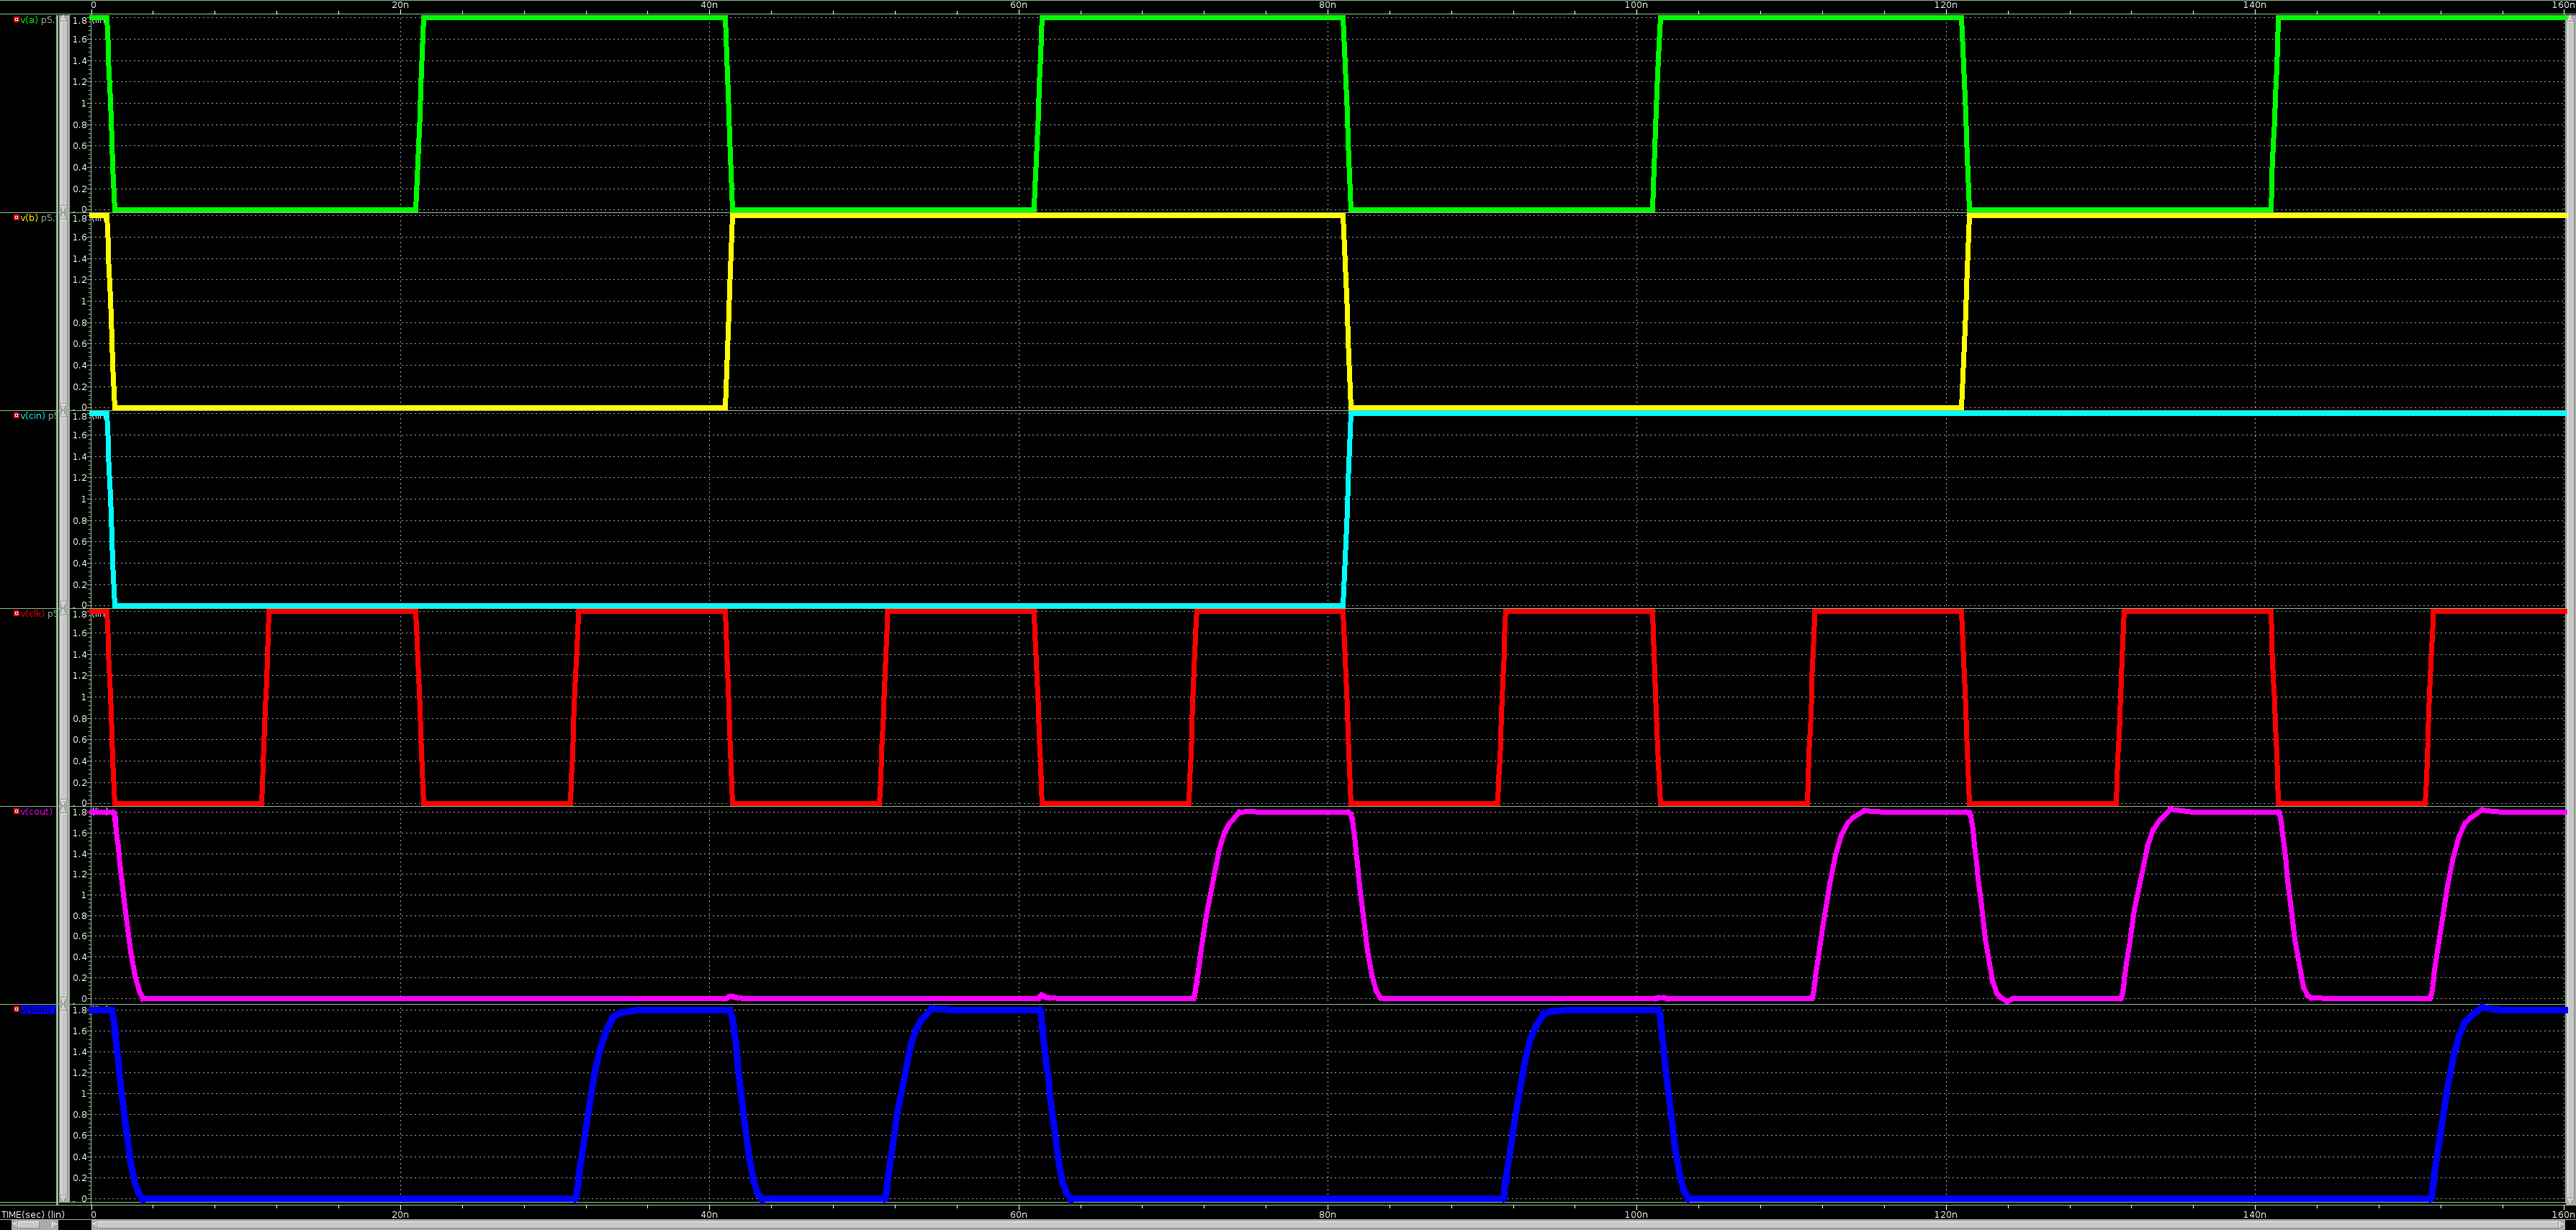
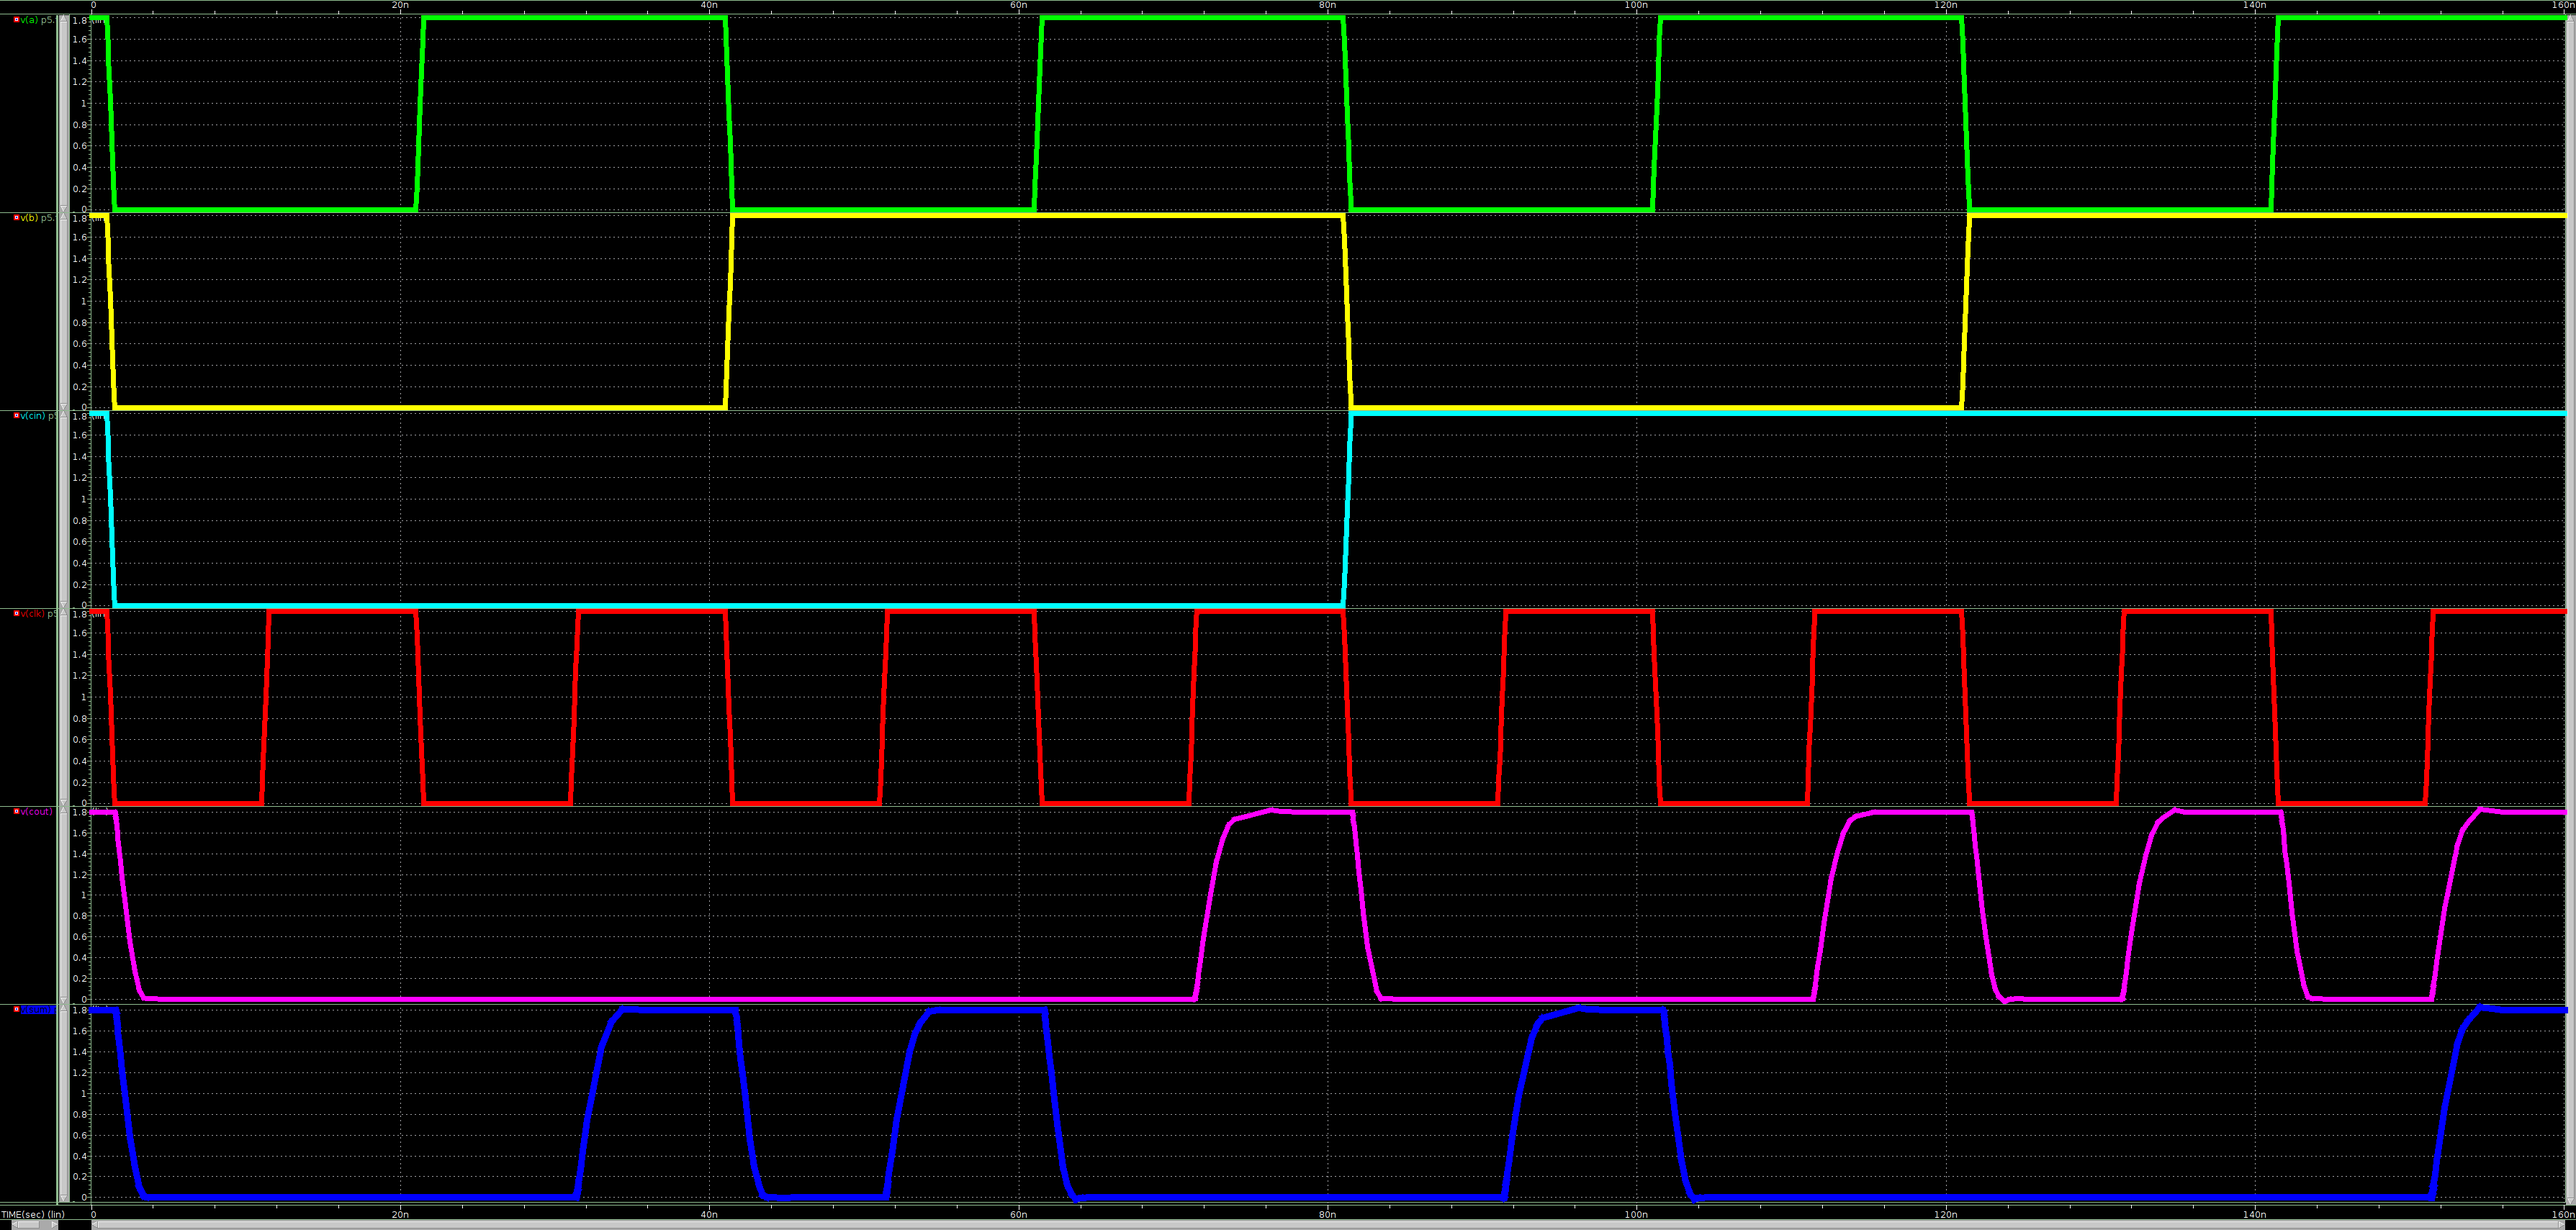
第6題 delay time更新

diff --git a/MidtermPractice/Practice5/README.md b/MidtermPractice/Practice5/README.md
@@ -4,16 +4,25 @@
 - delay time 全部符合
 - **注意:**
   
-  *VCLK    CLK  GND    PULSE(VL  VH  delay  trise  tfall  pulse_width  period)
+    *VCLK    CLK  GND    PULSE(VL　VH　delay　trise　tfall　 pulse_width　period)
 
-    vclk clk 0   pulse(1.8  0   1n  0.5n  0.5n  9.5n   20n)
-
-    tfall+pulse_width=period/2
-
-    即0.5n+9.5n=10n
+    vclk　clk　0　　pulse(1.8　0　　1n　　0.5n　0.5n　9.5n　　　　　20n)
+    > tfall+pulse_width=period/2 
+    >
+    > 即0.5n+9.5n= 20n/2 =10n
+- 備註: 
+    - 助教要求 delay time 需測量圖中的 s 與 Co
+    - delay time 全部符合
+    - p5_old.sp 僅各找到4個delay
 - 題目與節點
     > ![alt text](p5_node.jpg)
 - delay time
-    > ![alt text](delay_time.png)
+    > p5.sp
+    > ![alt text](p5_delay.png)
+    > p5_old.sp
+    > ![alt text](p5_delay_old.png)
 - 波型
+    > p5.sp
     > ![alt text](p5_wave.png)
+    > p5_old.sp
+    > ![alt text](p5_wave_old.png)
